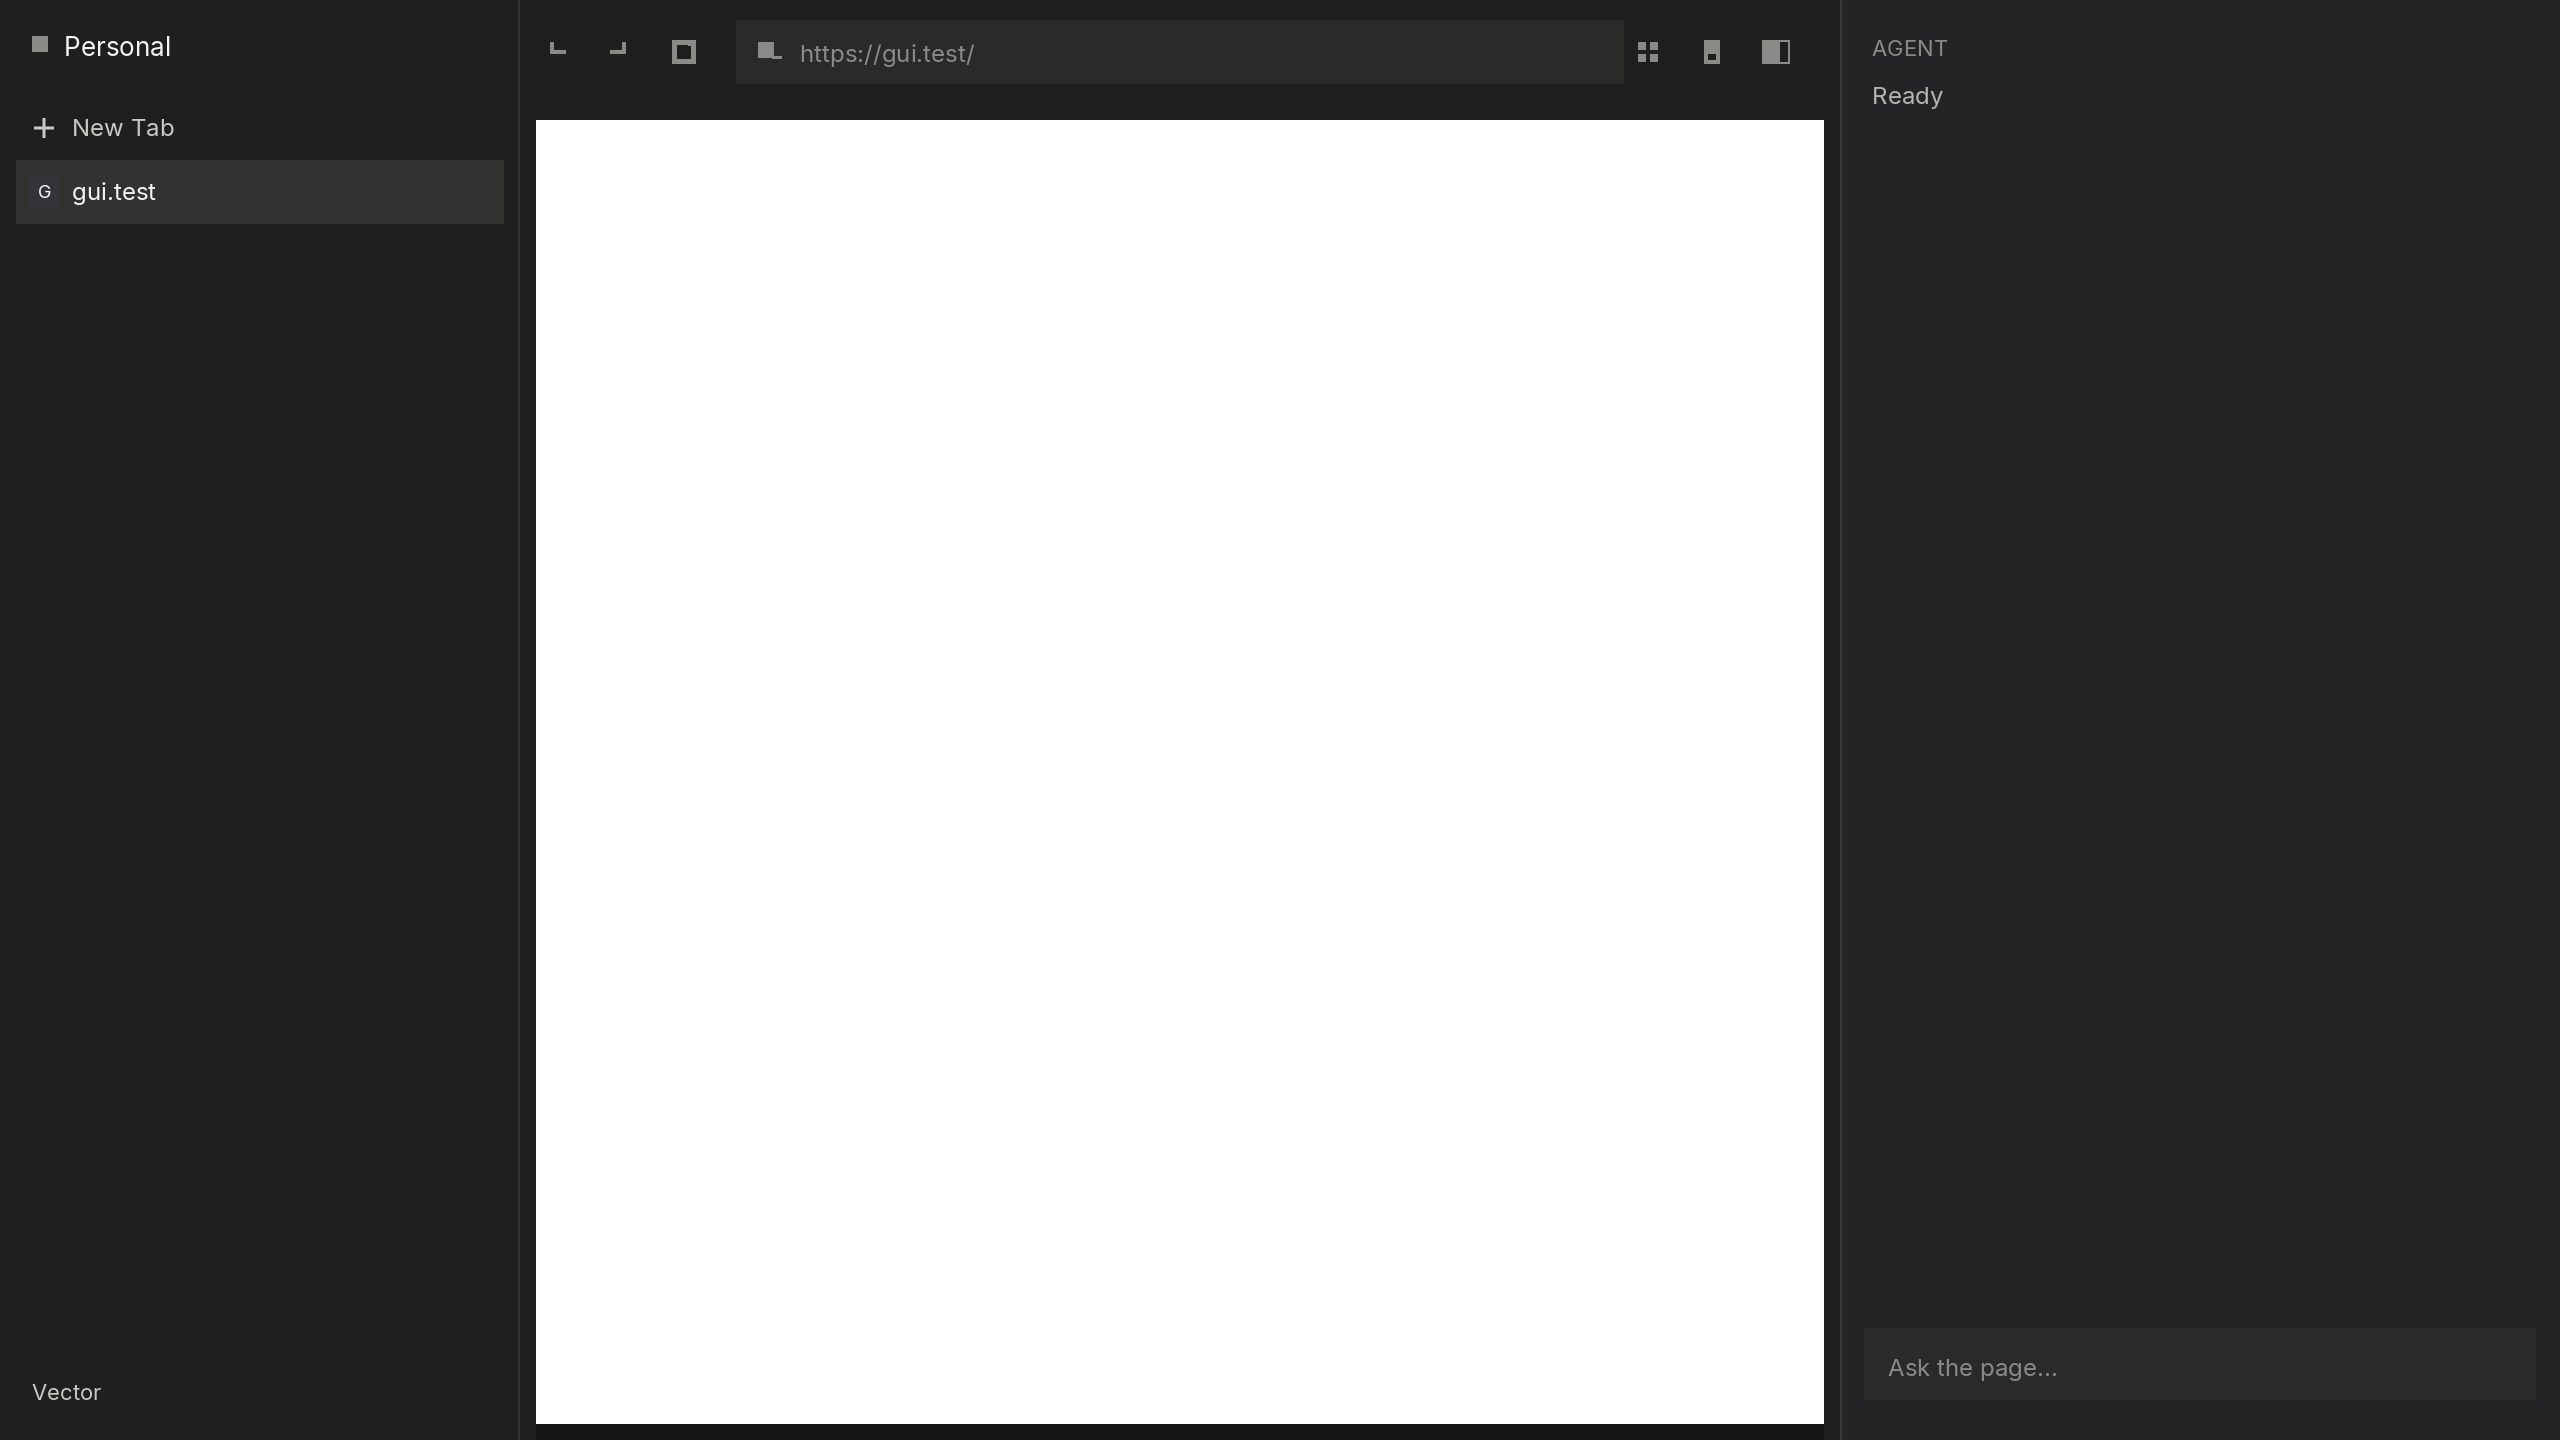
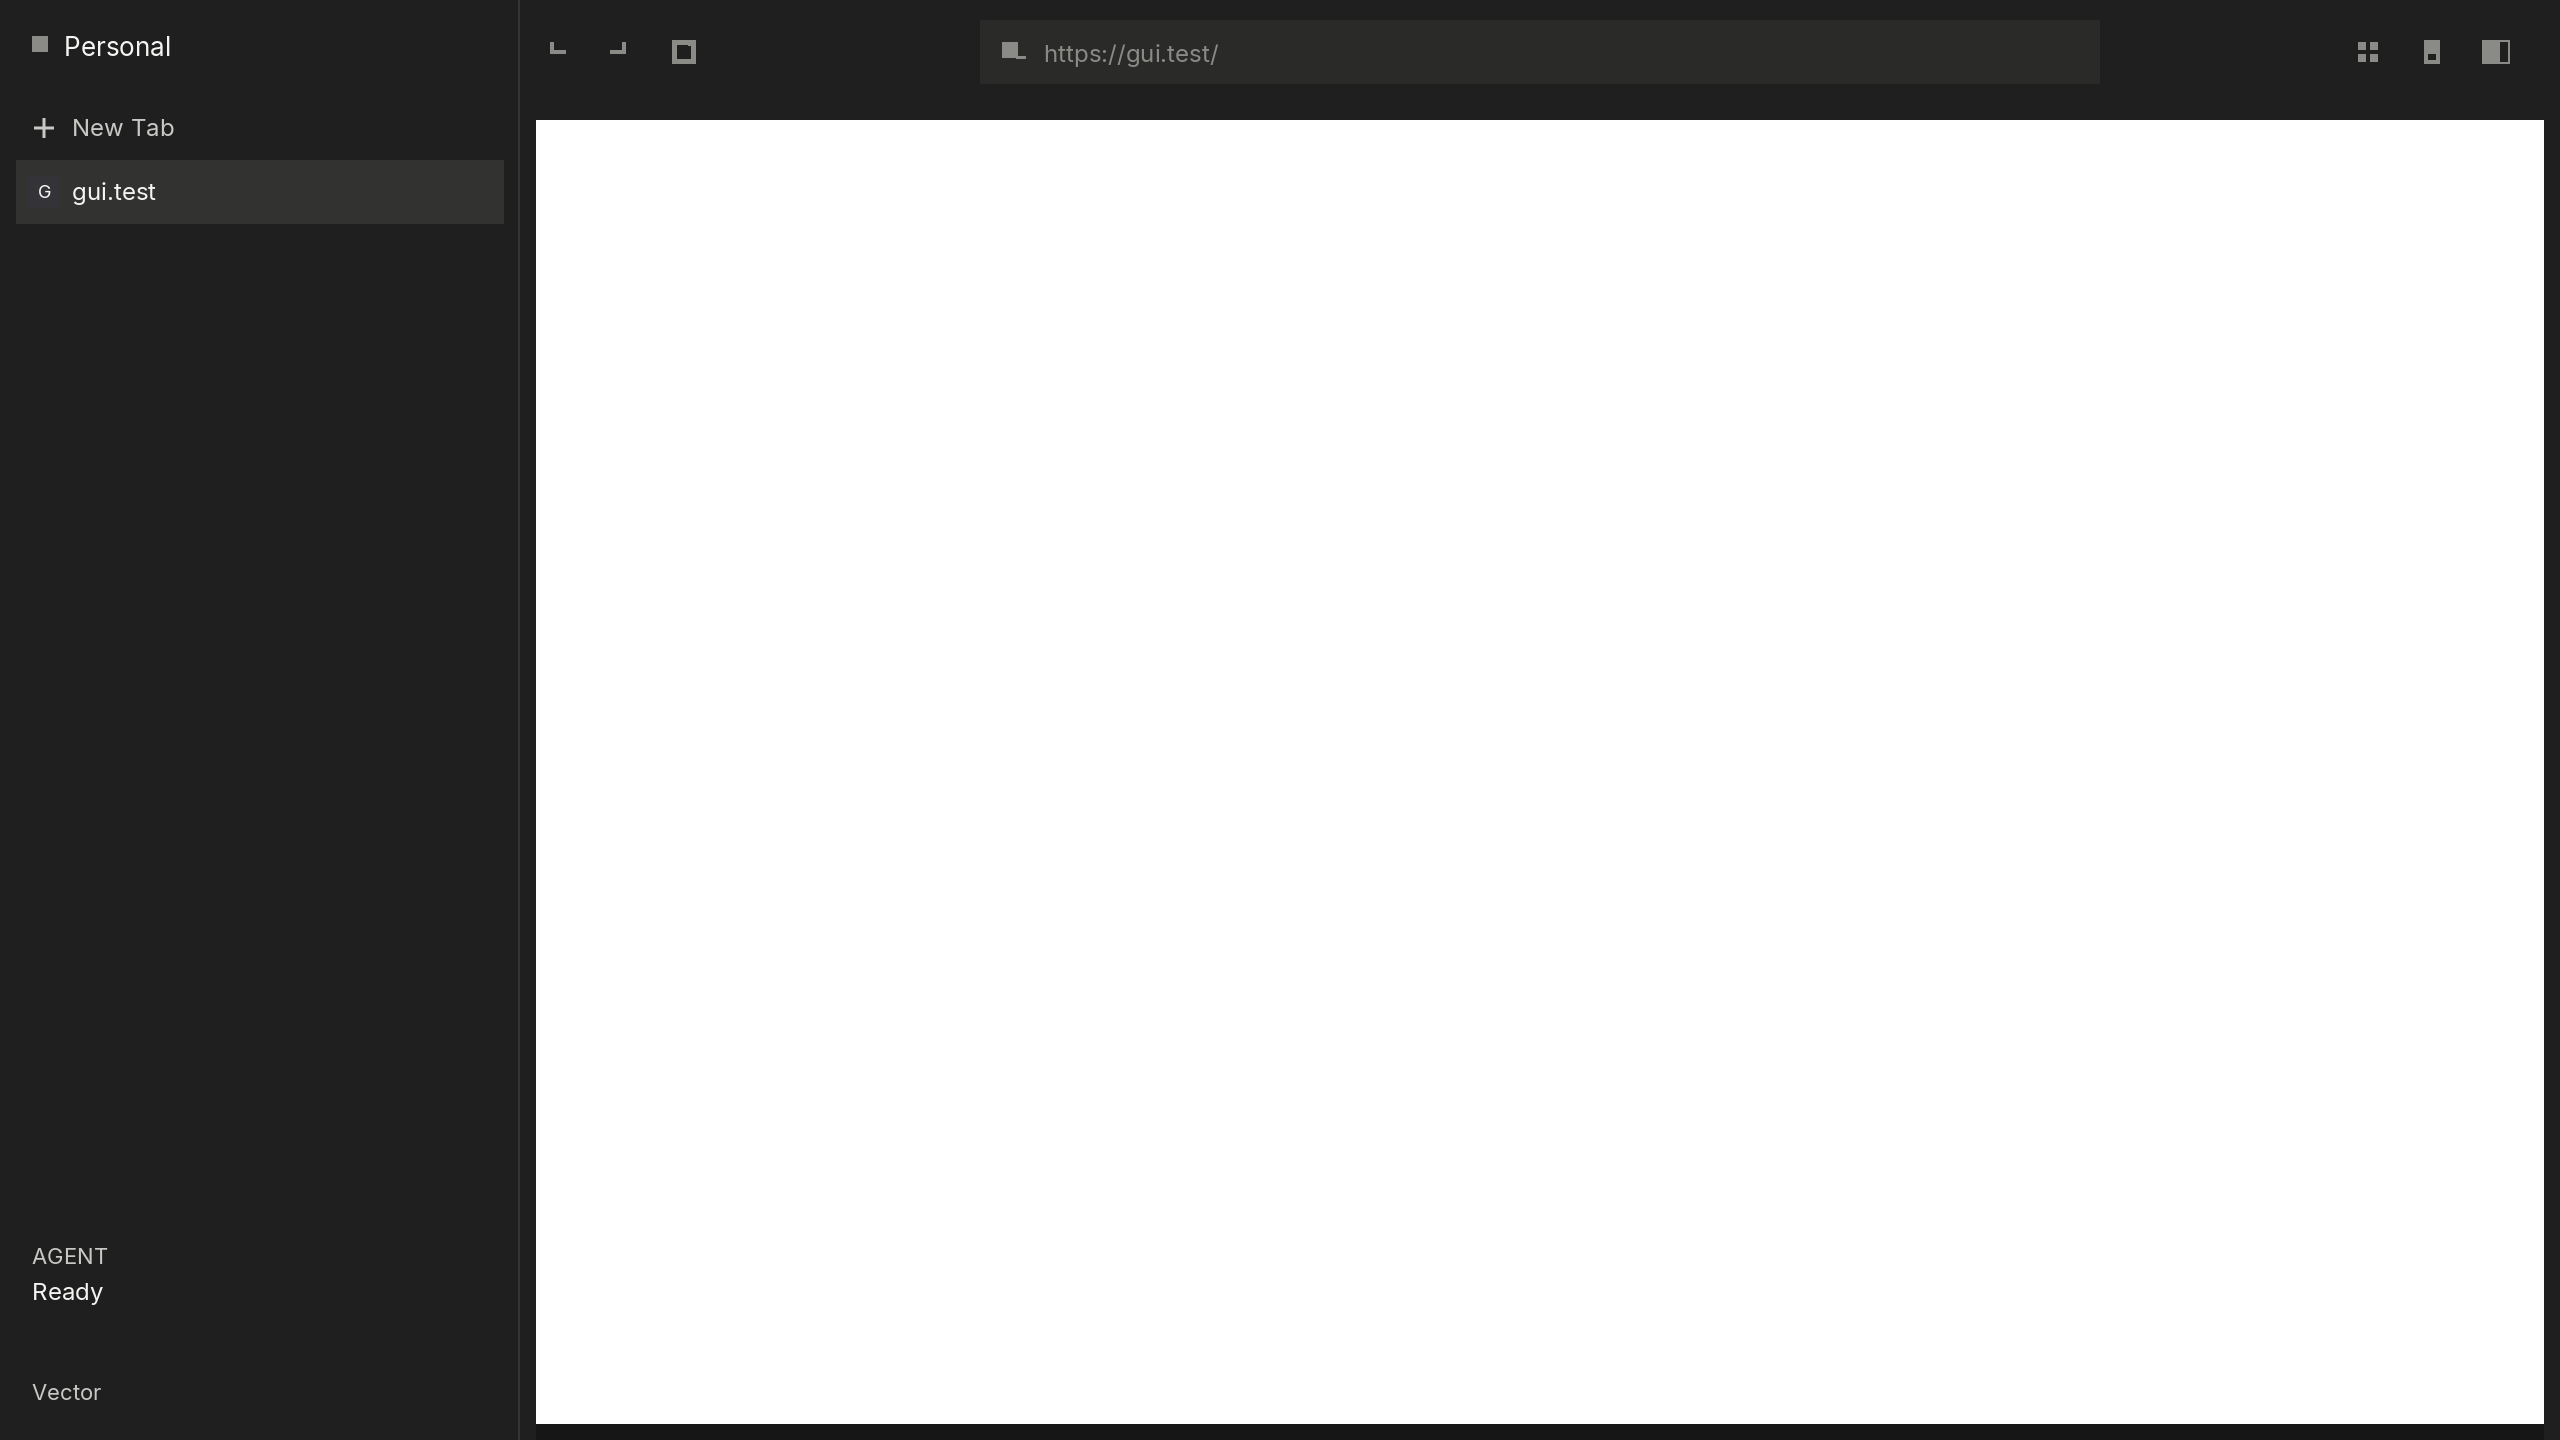
Close the agent rail by default to match Electron.
Electron store.railOpen is false and 01/03 put AGENT in the sidebar
footer. ve-chrome now does the same so the stage is the full inset card
instead of a 360px rail squeezing the start page.

diff --git a/engine/crates/ve-chrome/src/chrome.rs b/engine/crates/ve-chrome/src/chrome.rs
@@ -194,7 +194,7 @@ impl Default for Chrome {
             sidebar_collapsed: false,
             sidebar_width: ChromeMetrics::default().sidebar_w,
             rail_width: ChromeMetrics::default().rail_w,
-            rail_open: true,
+            rail_open: false,
             overlay: ChromeOverlay::None,
             agent_status: String::new(),
             backend: ChromeBackend::Engine,
@@ -591,6 +591,14 @@ impl Chrome {
             );
             y += self.metrics.row_h;
         }
+        let foot = window.height - 88.0;
+        self.label(list, Point::new(16.0, foot), "AGENT", 11.0, t.sb_ink_1);
+        let status = if self.agent_status.is_empty() {
+            "Ready"
+        } else {
+            self.agent_status.as_str()
+        };
+        self.label(list, Point::new(16.0, foot + 18.0), status, 12.0, t.sb_ink_0);
         self.label(
             list,
             Point::new(16.0, window.height - 20.0),
@@ -1730,6 +1738,7 @@ mod tests {
         c.command = "example.com".into();
         c.command_focused = true;
         c.agent_status = "Idle".into();
+        c.rail_open = true;
         c
     }
 

diff --git a/engine/crates/ve-api/src/shell.rs b/engine/crates/ve-api/src/shell.rs
@@ -2817,7 +2817,12 @@ mod tests {
         assert!(browser.chrome_enabled());
         let stage = browser.chrome().stage_rect(ve_core::Size::new(1280.0, 720.0));
         assert!(stage.x() >= 200.0);
-        assert!(stage.width() < 800.0);
+        assert!(
+            browser.chrome().rail_used() == 0.0,
+            "Electron default is rail closed"
+        );
+        assert!(stage.width() > 900.0);
+        assert!(stage.width() < 1100.0);
     }
 
     #[test]

diff --git a/docs/ROADMAP.md b/docs/ROADMAP.md
@@ -145,7 +145,7 @@ Goal: measurement exists, the cheapest large defects are gone, and no claim in t
 | ID | Item | WS | Status | Evidence |
 |---|---|---|---|---|
 | H2-A1 | Split `NativeBrowser` into `Browser` + `Window`; private windows via contexts | A | ☑ | `ve_api::NativeWindow` + `Browser` alias |
-| H2-A2 | `crates/ve-chrome` retained widgets; tokens + `workspace.ts` + `intent.ts` port | A | ☑ | Compact centered `command_pill_rect` + nav/action icons matching `docs/ui/screenshots/01-start-page.png` / `03-browsing-sidebar.png`; space-dot + 5-up pin tiles + tab favicon letters + `+ New Tab`; start page greeting/date/hero/sparkle prompts/`PINNED` tiles/`RECENT` rows (`seed_design_reference` / `design_reference_sites`); `docs/ui/screenshots/ve-shell-gui.png`; `docs/ui/screenshots/ve-shell-start.png`; `docs/ui/screenshots/ve-shell-palette.png`; `docs/ui/screenshots/ve-shell-settings.png`; `start_page_paints_greeting_and_prompts`; `paints_sidebar_stage_rail_and_text` hits toolbar `CommandBar`; static Inter-Regular (`prefer_static_inter`); `system_fonts_paint_inter_ui_text`; `ve-chrome-regions.json`; headed `live_os_window_and_mcp_share_one_page` |
+| H2-A2 | `crates/ve-chrome` retained widgets; tokens + `workspace.ts` + `intent.ts` port | A | ☑ | Electron default `railOpen: false` + AGENT footer in the sidebar; compact `command_pill_rect` + nav/action icons matching `docs/ui/screenshots/01-start-page.png` / `03-browsing-sidebar.png`; space-dot + 5-up pin tiles + tab favicon letters + `+ New Tab`; start page greeting/date/hero/sparkle prompts/`PINNED` tiles/`RECENT` rows (`seed_design_reference`); `docs/ui/screenshots/ve-shell-gui.png`; `docs/ui/screenshots/ve-shell-start.png`; `docs/ui/screenshots/ve-shell-palette.png`; `docs/ui/screenshots/ve-shell-settings.png`; `start_page_paints_greeting_and_prompts`; `product_chrome_paints_sidebar_stage_and_rail`; `paints_sidebar_stage_rail_and_text` hits toolbar `CommandBar`; static Inter-Regular (`prefer_static_inter`); `ve-chrome-regions.json`; headed `live_os_window_and_mcp_share_one_page` |
 | H2-A3 | `ve-shell-mac` (objc2): NSWindow, menus, IME, scroll phases, appearance | A | ☑ | `MacWindow::product` + objc2 `NSWindow`/menus/`effectiveAppearance` on macOS; `scroll_phase_from_nsevent` + `appearance_from_ns_name`; `test_double_covers_ime_scroll_appearance_menus` elsewhere |
 | H2-A4 | `ve-profile` (SQLite): history, bookmarks, session restore, downloads, find, zoom, cert interstitial, permission sheets | A | ☑ | `session_restore_reopens_tabs_after_restart`; `day_of_browsing_restores_tabs_history_bookmarks_zoom_find`; `docs/engine/evidence/day-of-browsing.json`; `find_bar_shows_match_count`; `cert_and_permission_sheets_persist_to_profile`; `Profile::open` rusqlite |
 | H2-C1 | `agent/machine.ts` pure reducer; coordinator &lt; 350 lines; ≥ 25 transition tests | C | ☑ | `coordinator.ts` 305 lines; `runCoordinatorLoop` applies `reduce`; `tests/unit/machine.test.ts` (26) |
